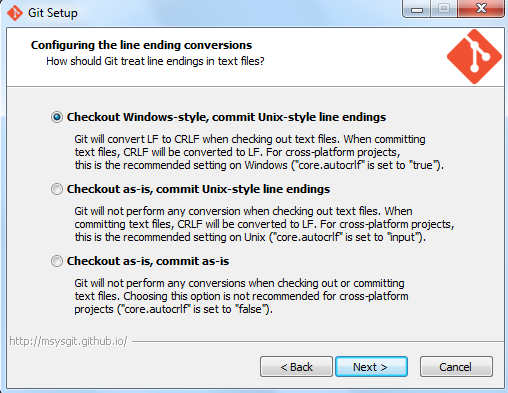
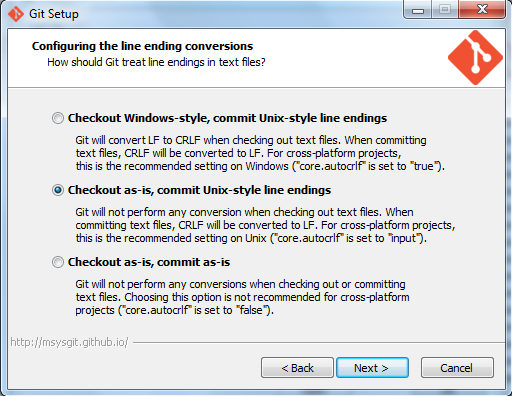
use figure element in post

diff --git a/_posts/2014-10-15-git-for-windows.md b/_posts/2014-10-15-git-for-windows.md
@@ -13,19 +13,19 @@ và chạy
 
 - Use `git-cheetah` plugin and TrueType Font
 
-![component](/images/git_install_component.png)
+{% include figure.html src="../images/git_install_component.png" caption="use TrueType font" %}
 
 - Git Bash only
 
-![path](/images/git_install_env.png)
+{% include figure.html src="../images/git_install_env.png" caption="use Git from Git Bash" %}
 
-- `core.autocrlf=true`
+- `core.autocrlf=input`
 
-![crlf](/images/git_install_lineend.png)
+{% include figure.html src="../images/git_install_lineend.png" caption="set core.autocrlf=input" %}
 
 - Attention: space in directory's name
 
-![dir](/images/git_install_path.png)
+{% include figure.html src="../images/git_install_path.png" caption="change default install directory" %}
 
 
 [git4win]: http://git-scm.com/download/win

diff --git a/_posts/2014-10-20-cai-dat-vim-tren-windows-7.md b/_posts/2014-10-20-cai-dat-vim-tren-windows-7.md
@@ -16,13 +16,13 @@ Cài đặt gVim từ [trang chủ của Vim][vim]:
 
 Chọn tùy chọn **Full** trong quá trình cài đặt:
 
-![full-install](/images/vim_install_full.png 'Full Install')
+{% include figure.html src="../images/vim_install_full.png" caption="Tùy chọn Cài đặt Full" %}
 
 Mặc định, gVim sẽ cài vào đường dẫn `C:\Program Files (x86)`, chúng ta nên thay
 đổi cài đặt vào thư mục nhà của người dùng `C:\Users\Tên_người_dùng` để dễ quản
 lý cấu hình cùng các ứng dụng khác.
 
-![homedir-install](/images/vim_install_path.png 'Chọn thư mục cài gVim')
+{% include figure.html src="../images/vim_install_path.png" caption="Chọn thư mục cài gVim" %}
 
 ## Quản lý plugin với Git và Pathogen
 

diff --git a/_posts/2011-01-12-lam-viec-voi-git.md b/_posts/2011-01-12-lam-viec-voi-git.md
@@ -17,15 +17,11 @@ dành cho việc phát triển Linux kernel.
 Dữ liệu trong repository được Git quản lý theo ba *tree*: **Working
 Directory**, **Index (stage)** và **HEAD (commit)** [^1] theo qui trình sau:
 
-<figure>
-<img src="/images/git-workflow.png">
-</figure>
+{% include figure.html src="../images/git-workflow.png" caption="Quy trình làm việc với Git" %}
 
 ## Các lệnh dùng trong qui trình {#command}
 
-<figure>
-<img src="/images/git-transport.png">
-</figure>
+{% include figure.html src="/images/git-transport.png" caption="Các lệnh dùng trong quy trình làm việc" %}
 
 Đây là một Git workflow đơn giản với các nguyên tắc cơ bản [^2]:
 
